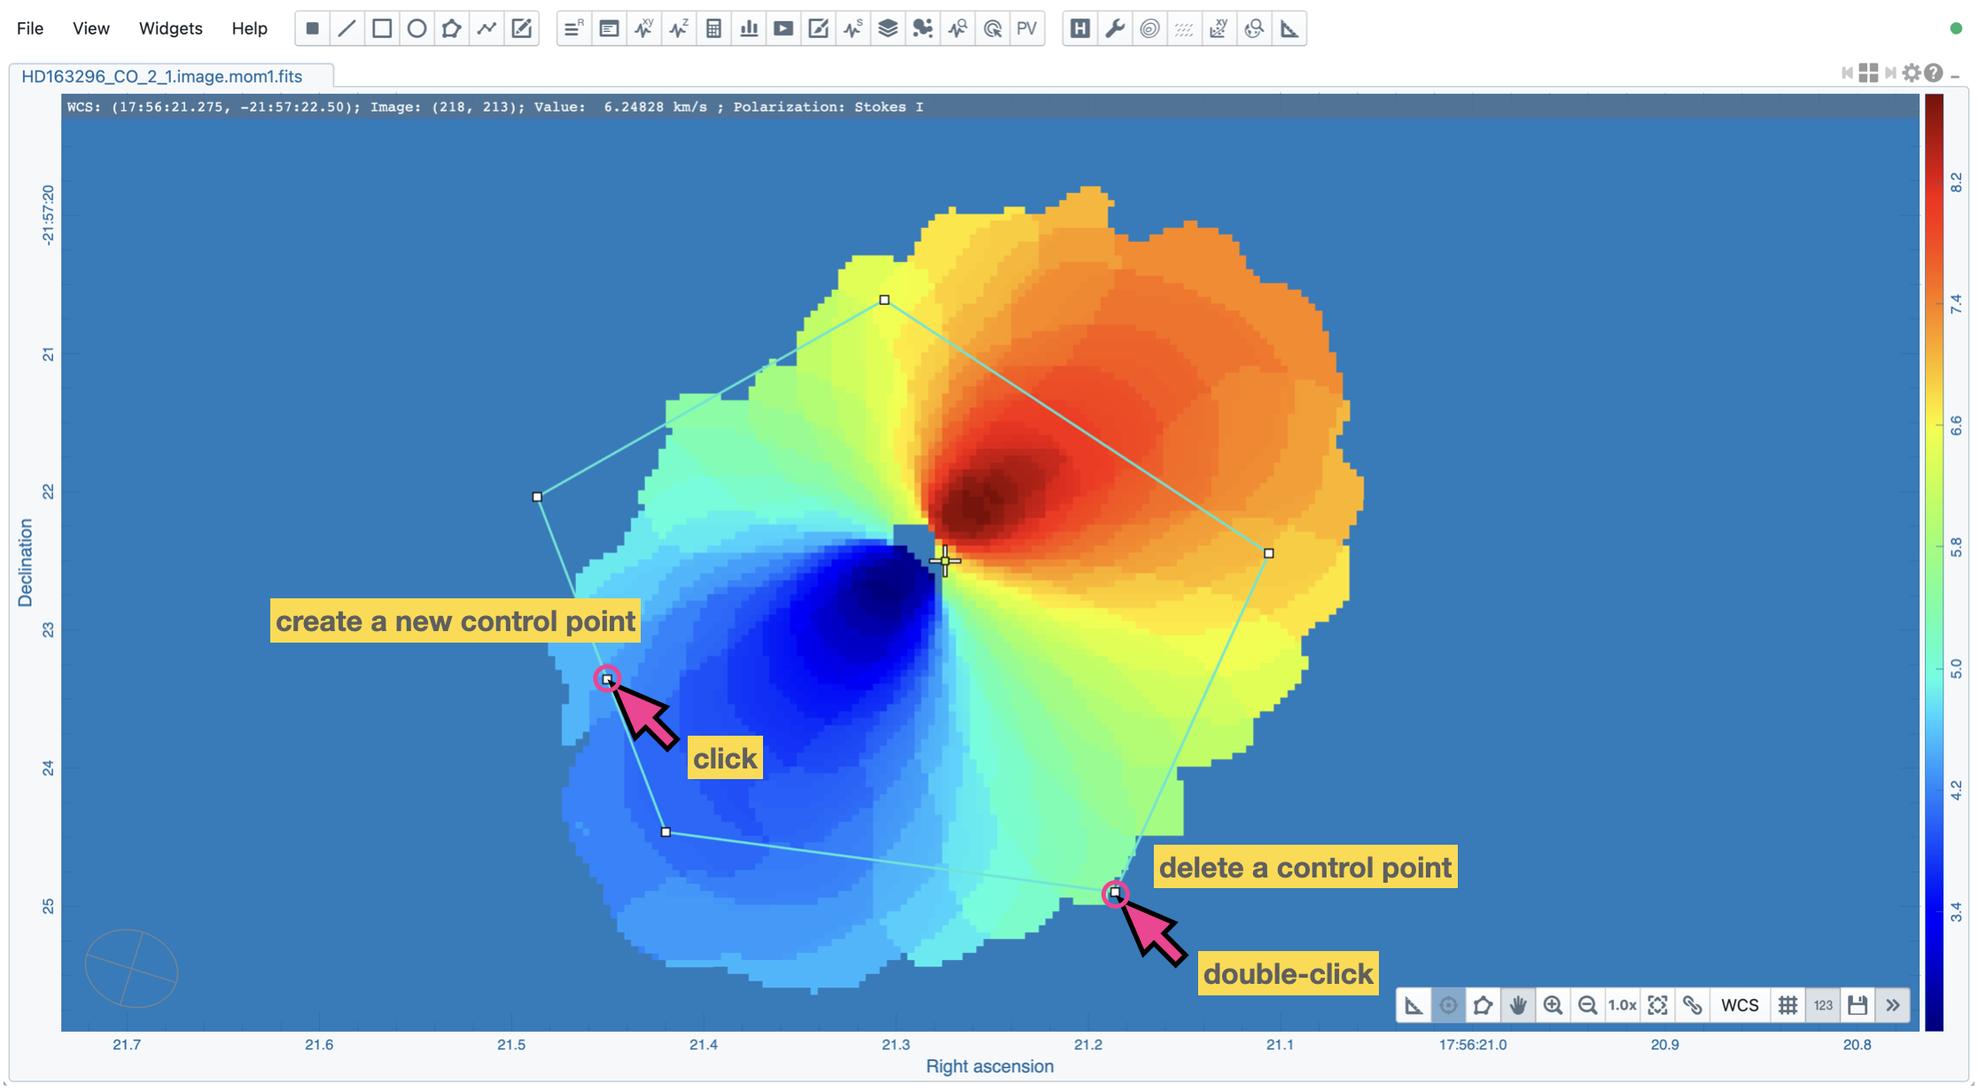
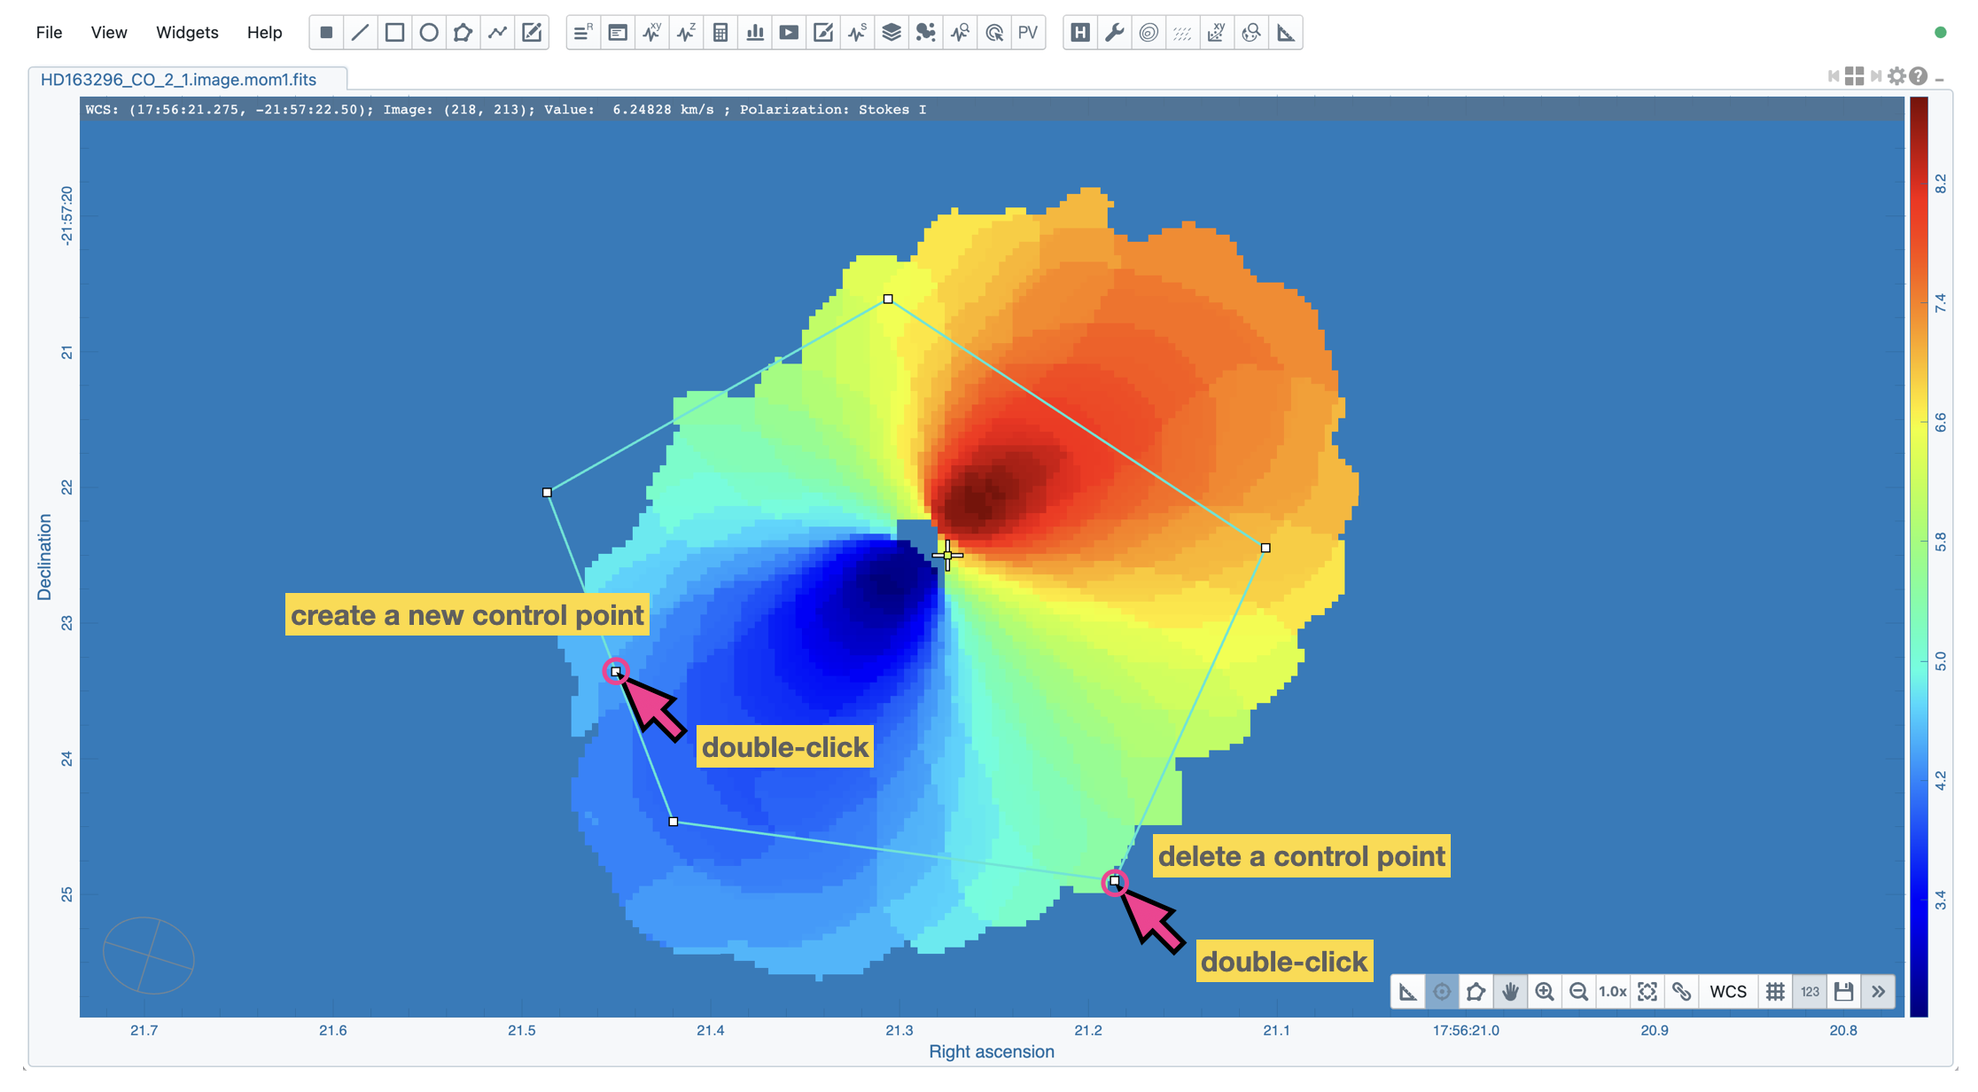
update fundamental ideas

diff --git a/source/fundamental_ideas.rst b/source/fundamental_ideas.rst
@@ -58,15 +58,16 @@ The Image List Widget shows a list of all loaded images, including their:
 * rendering type ("Layers" column): "**R**" means raster, "**C**" means contour, and "**V**" means vector overlay
 * image matching state ("Matching" column): 
    
-  * "**XY**" means the spatial domain
-  * "**Z**" means the spectral domain
-  * "**R**" means the raster rendering configuration
+  * "**XY**" means the spatial domain. "Boxed" **XY** means the spatial reference.
+  * "**Z**" means the spectral domain, "Boxed" **Z** means the spectral reference.
+  * "**R**" means the raster rendering configuration. "Boxed" **R** means the raster rendering reference.
 
 * channel index
 * polarization component 
 
 The first loaded image with valid spatial world coordinates serves as the default spatial reference and is highlighted with an open black box (e.g., HD163296_CO_2_1.image.mom0 in the above example). Similarly, the first loaded image with valid spectral coordinates serves as the default spectral reference and is highlighted with an open black box (e.g., HD163296_CO_2_1.fits in the above example). To match the world coordinates of other loaded images, you can click the "**XY**" button to match the spatial domain and click the "**Z**" button to match the spectral domain. If you would like to apply the same rendering configuration for different raster images, click the "**R**" button so that matched images will be rendered in the same way as the reference image highlighted with an open black box (e.g., HD163296_CO_2_1.image.mom0 in the above example).
 
+The "boxed" **XY**, **Z**, or **R** button indicates the reference image for spatial matching, spectral matching, or raster rendering configuration, respectively. Users can click the "boxed" button to trigger the matching process for *all* applicable images. For example, if you click the "boxed" **XY** button of the spatial reference image, all other images with valid and matchable spatial world coordinates will be matched in the spatial domain to the reference image. If you click the "boxed" **Z** button of the spectral reference image, all other images with valid and matchable spectral coordinates will be matched in the spectral domain to the reference image. If you click the "boxed" **R** button of the raster rendering reference image, all other raster images will be rendered in the same way as the reference image.
 
 You may change a spatial reference image, a spectral reference image, or a raster scaling reference by right-clicking on an image in the Image List Widget and using the context menu.
 
@@ -149,7 +150,7 @@ A raster image, contour image, or vector overlay image may be hidden in the Imag
 Region of interest
 ------------------
 
-As of v4.1.0, CARTA supports the following region types:
+As of v6.0, CARTA supports the following region types:
 
 * rectangle (rotatable)
 * ellipse (rotatable)
@@ -160,18 +161,18 @@ As of v4.1.0, CARTA supports the following region types:
 * line (rotatable)
 * polyline
 
-The creation and modification of regions are demonstrated in the section :ref:`mouse_interaction_with_regions`. To create a region, use the region button from the toolbar at the bottom-right corner of the Image Viewer or use the region buttons from the region bar at the top of the GUI, then use the cursor drag-and-drop action to draw a region. CARTA allows regions to be created even if the region is outside the image. Keyboard shortcuts associated with regions are listed below.
+The creation and modification of regions are demonstrated in the section :ref:`mouse_interaction_with_regions`. To create a region, use the region button from the toolbar at the bottom-right corner of the Image Viewer or use the region buttons from the region bar at the top of the GUI, then use the cursor drag-and-drop action to draw a region. CARTA allows regions to be created even if the region is outside the image. Keyboard controls associated with regions are listed below.
 
 +----------------------------------+----------------------------+-----------------------------+
 |                                  | macOS                      | Linux                       |
 +==================================+============================+=============================+
 | Region properties                | double-click               | double-click                | 
 +----------------------------------+----------------------------+-----------------------------+
-| Delete selected region           | del / backspace            | del / backspace             |
+| Delete selected region(s)        | del / backspace            | del / backspace             |
 +----------------------------------+----------------------------+-----------------------------+
 | Toggle region creation mode      | C                          | C                           |
 +----------------------------------+----------------------------+-----------------------------+
-| Deselect region                  | esc                        | esc                         |
+| Deselect region(s)               | esc                        | esc                         |
 +----------------------------------+----------------------------+-----------------------------+
 | Cancel region creation           | esc                        | esc                         |
 +----------------------------------+----------------------------+-----------------------------+
@@ -185,6 +186,33 @@ The creation and modification of regions are demonstrated in the section :ref:`m
 +----------------------------------+----------------------------+-----------------------------+
 | Pan image (inside region)        | cmd + click / middle-click | ctrl + click / middle-click |
 +----------------------------------+----------------------------+-----------------------------+
+| Move region (default step)       | arrow keys                 | arrow keys                  |
++----------------------------------+----------------------------+-----------------------------+
+| Move region (coarse step)        | shift + arrow keys         | shift + arrow keys          |
++----------------------------------+----------------------------+-----------------------------+
+| Move region (fine step)          | option + arrow keys        | alt + arrow keys            |
++----------------------------------+----------------------------+-----------------------------+
+| Copy and paste region            | cmd + C / cmd + V          | ctrl + C / ctrl + V         |
++----------------------------------+----------------------------+-----------------------------+
+| Multi-select regions             | cmd / ctrl + click         | ctrl + click                |
++----------------------------------+----------------------------+-----------------------------+
+| Multi-select regions             | shift + click-and-drag     | shift + click-and-drag      |
++----------------------------------+----------------------------+-----------------------------+
+| Toggle control point editing     | enter                      | enter                       |
++----------------------------------+----------------------------+-----------------------------+
+| Deselect control point           | esc                        | esc                         |
++----------------------------------+----------------------------+-----------------------------+
+| Cycle through control points     | tab or shift + tab         | tab or shift + tab          |
++----------------------------------+----------------------------+-----------------------------+
+| Modify control point             | arrow keys                 | arrow keys                  |
++----------------------------------+----------------------------+-----------------------------+
+| Modify control point (coarse)    | shift + arrow keys         | shift + arrow keys          |
++----------------------------------+----------------------------+-----------------------------+
+| Modify control point (fine)      | option + arrow keys        | alt + arrow keys            |
++----------------------------------+----------------------------+-----------------------------+
+
+
+
 
 .. tip::
   "**backspace**" does not delete a region...
@@ -197,11 +225,11 @@ The creation and modification of regions are demonstrated in the section :ref:`m
   4. It will likely have a value of 0. Double-click it, and then modify it to a value of "2".
   5. Close the about:config tab, and now backspace will no longer navigate back a page.
 
-All created regions are listed in the Region List Widget with basic region properties. To select a region (region state changes to "active"), click on the region in the Image Viewer or the region in the Region List Widget. 
+All created regions are listed in the Region List Widget with basic region properties. To select a region (region state changes to "active"), click on the region in the Image Viewer or the region in the Region List Widget. To multi-select regions, use the "**shift**" key and click on the regions in the Image Viewer or the Region List Widget. You can also multi-select regions by holding the "**shift**" key and clicking and dragging a box to enclose the regions in the Image Viewer. Alternatively, you can use the "**cmd**" key / "**shift**" key on macOS, or the "**ctrl**" key / "**shift**" key on Linux as the modifier key to multi-select regions by clicking the regions in the Region List Widget. When multiple regions are selected, you can modify their common properties simultaneously with the Region Configuration Dialog.
 
-To modify the properties of a selected region, double-click on a region in the Image Viewer or a region in the Region List Widget to bring up the Region Configuration Dialog. A region's color, line style, name, location, and shape are all configurable with the Region Configuration Dialog. The location and shape properties can be edited in the image coordinates or in the world coordinates with angular scales (default). 
+To modify the properties of a selected region, double-click on a region in the Image Viewer or a region in the Region List Widget to bring up the Region Configuration Dialog. A region's color, line style, name, location, and shape are all configurable with the Region Configuration Dialog. The location and shape properties can be edited in the image coordinates or in the world coordinates with angular scales (default). When mutiple regions are selected, only the common properties among the selected regions are shown in the Region Configuration Dialog. 
 
-To de-select a region or cancel a region creation process, press the "**esc**" key. Press the "**delete**" or "**backspace**" key to delete a selected region. 
+To de-select a region or a set of regions, or cancel a region creation process, press the "**esc**" key. Press the "**delete**" or "**backspace**" key to delete a selected region or selected regions. 
 
 An active region can be locked by pressing the "**L**" key or clicking the "**lock**" button in the Region List Widget or region property dialog. You may lock all regions at once by clicking the "**lock**" button in the top-left corner of the Image List Widget. When a region is locked, it cannot be modified (resize, move, or delete) with mouse actions and the "**delete**" or  "**backspace**" key. A locked region, however, can still be modified or deleted via the Region Configuration Dialog. Locking a region could help the situation when you want to modify overlapping regions or prevent accidentally modifying a region. 
 
@@ -556,6 +584,12 @@ To create a circle region via the ellipse region type or a square region via the
 
 * Hold the “**shift**” key, then drag-and-drop
 
+To multi-select regions
+
+* In the image viewer, hold the “**shift**” key, then click-and-drag a box to enclose the regions
+* In the image viewer, hold the "cmd / ctrl" key, then click on the regions
+* In the region list widget, hold the "cmd / ctrl / shift" key, then click on the regions
+
 To create or modify a region (rectangle, ellipse, or line) with the alternative mode (center-to-corner v.s. corner-to-corner)
 
 * Hold the “**command**” (macOS) / “**ctrl**” (Linux) key, then drag-and-drop
@@ -609,7 +643,9 @@ To create a polygon region or a polyline region, start with a click followed by 
 
 **Region selection and modification**
 
-Click on a region in the Image Viewer will change the region state to "active". The active region will be highlighted in the Region List Widget. Alternatively, a region can be selected by clicking a region entry in the Region List Widget. CARTA allows selecting a "region in region". The layer order of regions is adjusted automatically based on the region size. To deselect a region, click elsewhere in the Image Viewer or press the "**esc**" key.
+Click on a region in the Image Viewer will change the region state to "active". The active region will be highlighted in the Region List Widget. Alternatively, a region can be selected by clicking a region entry in the Region List Widget. Multi-selection of regions is also supported. In the Image Viewer, hold the "**shift**" key and click-and-drag a box to enclose the regions, or hold the "cmd / ctrl" key, then click on the regions. In the Region List Widget, hold the "cmd / ctrl / shift" key, then click on the regions.
+
+CARTA allows selecting a "region in region". The layer order of regions is adjusted automatically based on the region size. To deselect a region, click elsewhere in the Image Viewer or press the "**esc**" key.
 
 
 .. raw:: html
@@ -620,7 +656,7 @@ Click on a region in the Image Viewer will change the region state to "active". 
    </a>
 
 
-Double-click on a region in the Image Viewer or a region in the Region List Widget will launch the Region Configuration Dialog. You can make changes to the region's name, location, shape, and style using the dialog. Pressing the "**delete**" or the "**backspace**" key will remove the active region. 
+Double-click on a region in the Image Viewer or a region in the Region List Widget will launch the Region Configuration Dialog. You can make changes to the region's name, location, shape, and style using the dialog. When multiple regions are selected, the Region Configuration Dialog will display the common properties only. Pressing the "**delete**" or the "**backspace**" key will remove the active region or selected regions. 
 
 
 .. raw:: html
@@ -644,7 +680,7 @@ Double-click on a region in the Image Viewer or a region in the Region List Widg
   5. Close the about:config tab, and now backspace will no longer navigate back a page.
 
 
-A new control point can be added by clicking on a line segment for a polygon or polyline region. A control point can be deleted by double-clicking on the control point.
+A new control point can be added by double-clicking on a line segment for a polygon or polyline region. A control point can be deleted by double-clicking on the control point.
 
 .. raw:: html
 
@@ -653,9 +689,14 @@ A new control point can be added by clicking on a line segment for a polygon or 
            style="width:100%;height:auto;">   
    </a>
 
+**Move region with keyboard**
+
+To move a selected region with the keyboard, use the arrow keys for the default step (in screen pixel), hold the "**shift**" key and use the arrow keys for the coarse step (in screen pixel), or hold the "**option**" (macOS) / "**alt**" (Linux) key and use the arrow keys for the fine step (one image pixel).
 
 
+**Copy and paste a region or regions**
 
+To copy a region or regions, select the region or regions and press the "**cmd**" + "**C**" key (macOS) or the "**ctrl**" + "**C**" key (Linux). To paste a region or regions, press the "**cmd**" + "**V**" key (macOS) or the "**ctrl**" + "**V**" key (Linux). 
 
 
 
@@ -848,6 +889,35 @@ A widget can be activated as a floating widget by clicking the desired widget bu
    </a>
 
 
+Making the image viewer as a popout browser window
+^^^^^^^^^^^^^^^^^^^^^^^^^^^^^^^^^^^^^^^^^^^^^^^^^^
+This is a new feature introduced in CARTA v6.0. The Image Viewer can be popped out as a new browser window by clicking the "**popout**" button at the top-right corner of the Image Viewer. The popout window can be resized and moved freely just like a regular browser window. The popout window can be closed by clicking the "**close**" button of the browser window and the Image Viewer will be restored to the main browser window. 
+
+
+.. raw:: html
+
+   <a href="_static/carta_gui_popout_viewer_before.png" target="_blank">
+       <img src="_static/carta_gui_popout_viewer_before.png" 
+           style="width:100%;height:auto;">   
+   </a>
+
+
+.. raw:: html
+
+   <a href="_static/carta_gui_popout_viewer_after.png" target="_blank">
+       <img src="_static/carta_gui_popout_viewer_after.png" 
+           style="width:100%;height:auto;">   
+   </a>
+
+
+The best use case of this feature is to use a second monitor to display the Image Viewer while keeping the main browser window for other widgets, or vice verse. If you are using an extra-wide screen monitor or a regular monitor, it is still recommended to use a single browser window to display the Image Viewer and other widgets and utilize the layout management feature to configure the layout. This provides a seamless user experience when you switch focus between the Image Viewer and other widgets. When the Image Viewer is popped out as a new browser window, it is just like a regular browser window managed by the operating system. You will need to *activate* the browser window with an extra mouse click, with a keyboard shortcut, or enabling auto-focus on mouse hover before interacting with the content. 
+
+
+
+
+
+
+
 Light and dark themes
 ^^^^^^^^^^^^^^^^^^^^^
 CARTA supports light and dark themes. The default theme is determined automatically from the operating system (if applicable). The theme can be changed using the menu "**View**" -> "**Theme**", or the shortcut "**shift**" + "**D**".
@@ -906,6 +976,30 @@ CARTA supports keyboard shortcuts to enable specific actions without using a mou
 | Toggle current region lock       | L                               | L                               |
 +----------------------------------+---------------------------------+---------------------------------+
 | Unlock all regions               | shift + L                       | shift + L                       |
++----------------------------------+---------------------------------+---------------------------------+
+| Move region (default step)       | arrow keys                      | arrow keys                      |
++----------------------------------+---------------------------------+---------------------------------+
+| Move region (coarse step)        | shift + arrow keys              | shift + arrow keys              |
++----------------------------------+---------------------------------+---------------------------------+
+| Move region (fine step)          | option + arrow keys             | alt + arrow keys                |
++----------------------------------+---------------------------------+---------------------------------+
+| Copy and paste region            | cmd + C / cmd + V               | ctrl + C / ctrl + V             |
++----------------------------------+---------------------------------+---------------------------------+
+| Multi-select regions             | cmd / ctrl + click              | ctrl + click                    |
++----------------------------------+---------------------------------+---------------------------------+
+| Multi-select regions             | shift + click-and-drag          | shift + click-and-drag          |
++----------------------------------+---------------------------------+---------------------------------+
+| Toggle control point editing     | enter                           | enter                           |
++----------------------------------+---------------------------------+---------------------------------+
+| Deselect control point           | esc                             | esc                             |
++----------------------------------+---------------------------------+---------------------------------+
+| Cycle through control points     | tab or shift + tab              | tab or shift + tab              |
++----------------------------------+---------------------------------+---------------------------------+
+| Modify control point             | arrow keys                      | arrow keys                      |
++----------------------------------+---------------------------------+---------------------------------+
+| Modify control point (coarse)    | shift + arrow keys              | shift + arrow keys              |
++----------------------------------+---------------------------------+---------------------------------+
+| Modify control point (fine)      | option + arrow keys             | alt + arrow keys                |
 +----------------------------------+---------------------------------+---------------------------------+
 | **Appearance**                   |                                 |                                 |
 +----------------------------------+---------------------------------+---------------------------------+
